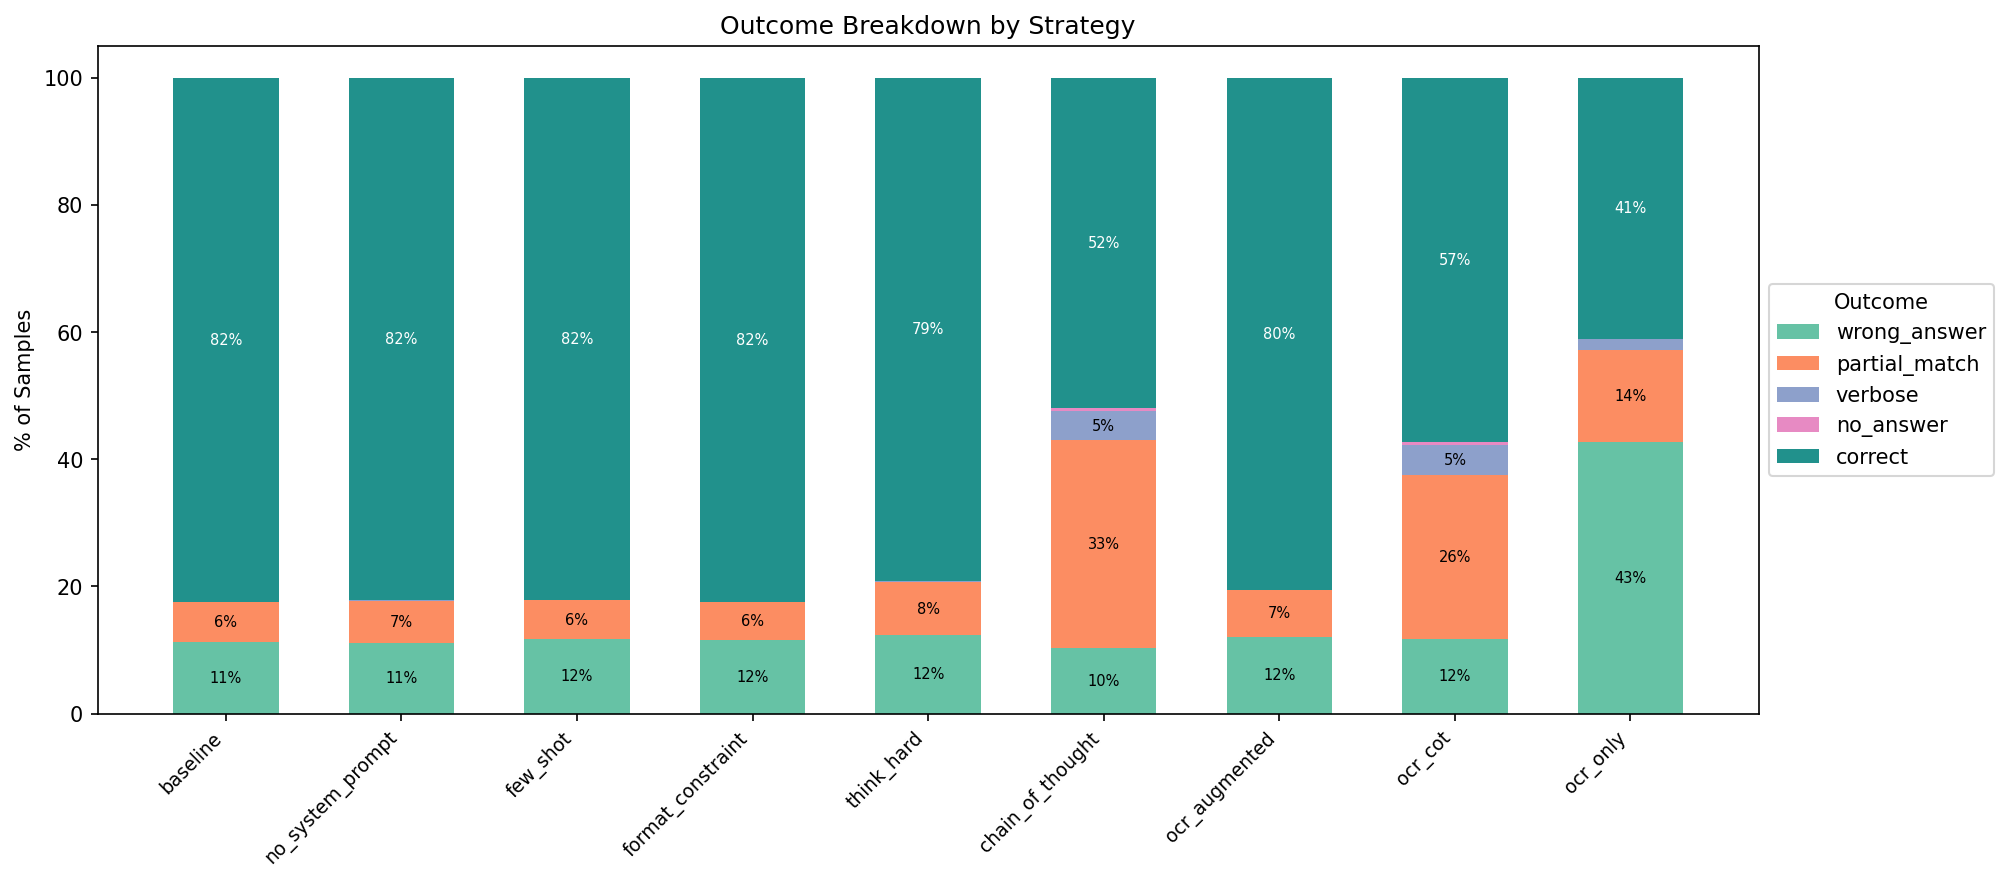
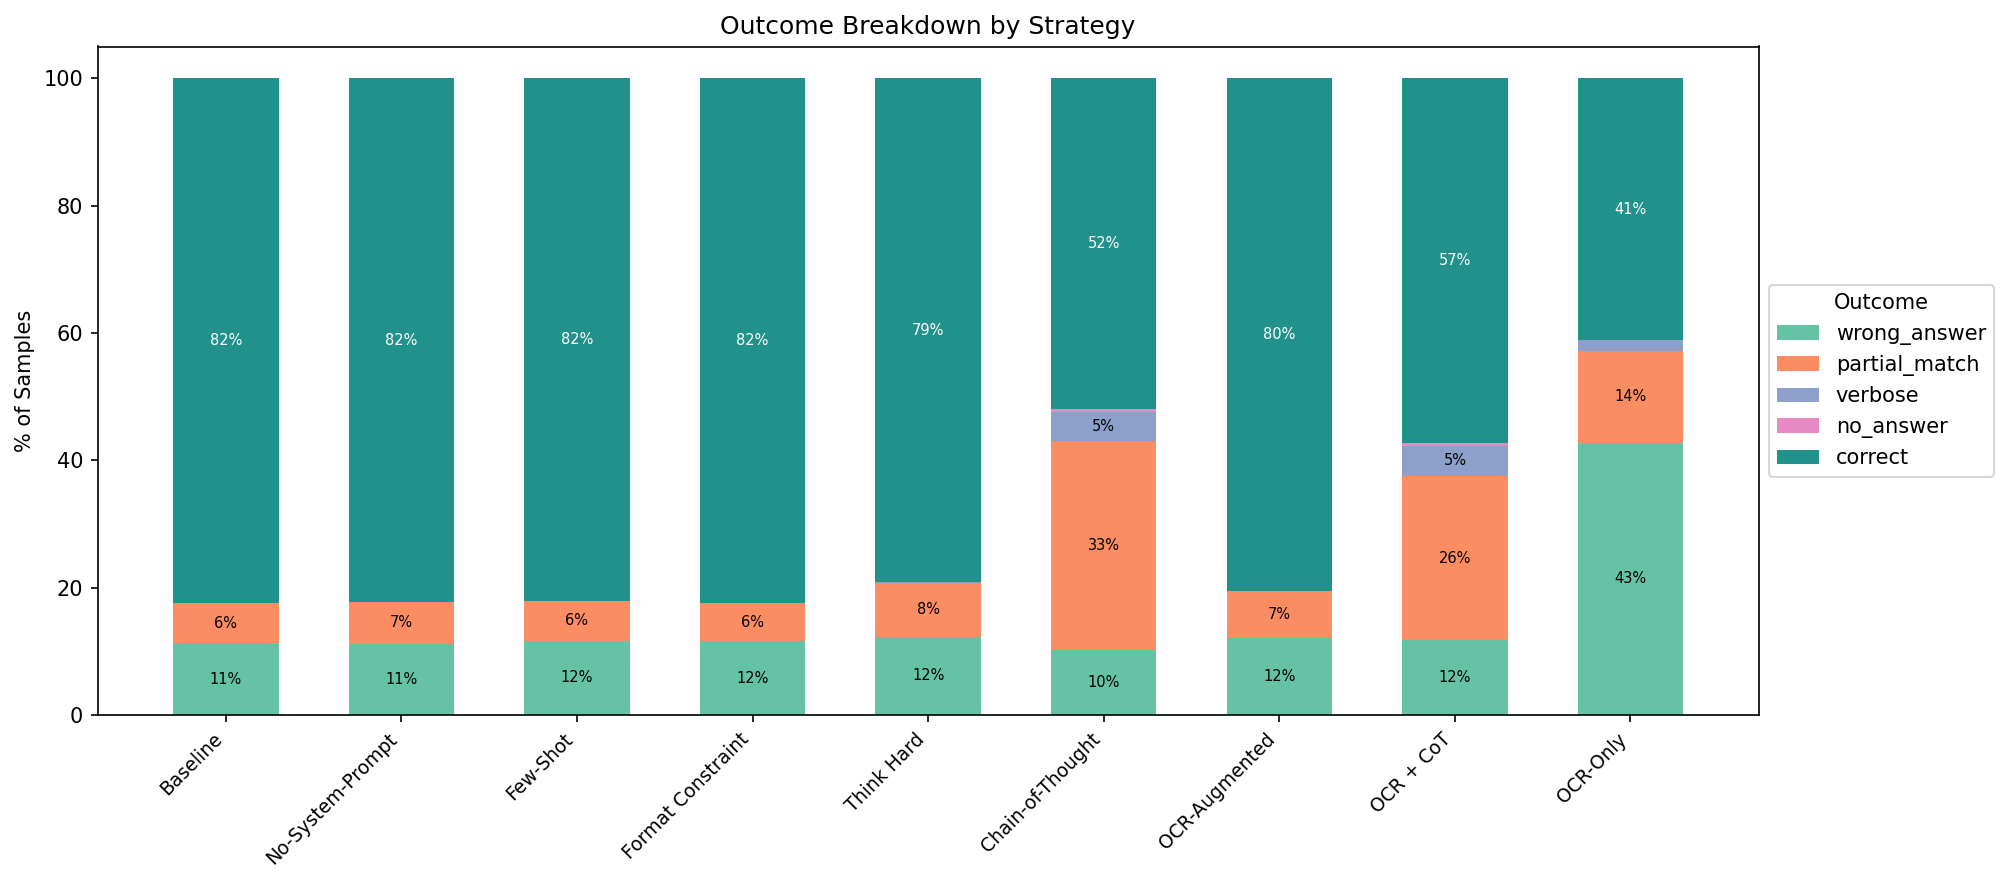
Use display names on error analysis plot axes

diff --git a/scripts/run_analysis.py b/scripts/run_analysis.py
@@ -562,7 +562,7 @@ def analyze_errors(results_dir: Path, output_dir: Path):
                         str(c), ha="center", va="bottom", fontsize=7)
 
     ax.set_xticks(x + width * (n_types - 1) / 2)
-    ax.set_xticklabels(strategies, rotation=45, ha="right", fontsize=9)
+    ax.set_xticklabels([DISPLAY_NAMES.get(s, s) for s in strategies], rotation=45, ha="right", fontsize=9)
     ax.set_ylabel("Count")
     ax.set_title("Error Type Comparison Across Strategies")
     ax.legend(title="Error Type")
@@ -595,7 +595,7 @@ def analyze_errors(results_dir: Path, output_dir: Path):
         ax.text(x[j], bot + pct / 2, f"{pct:.0f}%", ha="center", va="center", fontsize=7, color="white")
 
     ax.set_xticks(x)
-    ax.set_xticklabels(strategies, rotation=45, ha="right", fontsize=9)
+    ax.set_xticklabels([DISPLAY_NAMES.get(s, s) for s in strategies], rotation=45, ha="right", fontsize=9)
     ax.set_ylabel("% of Samples")
     ax.set_title("Outcome Breakdown by Strategy")
     ax.legend(title="Outcome", loc="center left", bbox_to_anchor=(1.0, 0.5))
